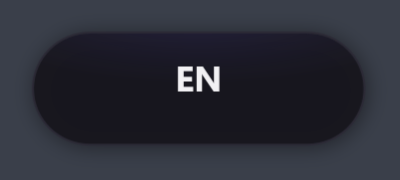
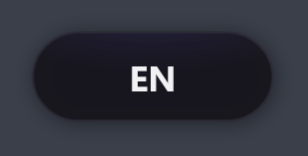
README: layout pill picture at its real size
The docs render stretched the pill into a fixed 200x90 box, so the text sat high and looked small.

Changed region(s): [[0.0584, 0.1795, 0.9351, 0.7949], [0.4091, 0.359, 0.5844, 0.5897]]

diff --git a/src/SimpleWindowsTools/UI/OverlayWindow.xaml b/src/SimpleWindowsTools/UI/OverlayWindow.xaml
@@ -18,7 +18,7 @@
             <Border.RenderTransformOrigin>0.5,0.5</Border.RenderTransformOrigin>
             <Grid>
                 <Border x:Name="Glow" Background="{DynamicResource TopGlow}" />
-                <TextBlock x:Name="Label" Text="EN" Margin="28,10" MinWidth="64" TextAlignment="Center"
+                <TextBlock x:Name="Label" Text="EN" Margin="28,10" MinWidth="64" TextAlignment="Center" VerticalAlignment="Center"
                            FontFamily="{StaticResource FontDisplay}" FontWeight="Bold" FontSize="18"
                            Foreground="{DynamicResource Ink}" />
             </Grid>

diff --git a/src/SimpleWindowsTools/DebugRender.cs b/src/SimpleWindowsTools/DebugRender.cs
@@ -63,7 +63,8 @@ internal static class DebugRender
         overlay.Label.Text = "RU";
         overlay.Pill.Opacity = 1;
         var gray = new SolidColorBrush(Color.FromRgb(0x3A, 0x3F, 0x4A));
-        Save((FrameworkElement)overlay.Content, 200, 90, gray, Path.Combine(dir, "overlay.png"));
+        var pillSize = PillSize(overlay);
+        Save((FrameworkElement)overlay.Content, pillSize.Width, pillSize.Height, gray, Path.Combine(dir, "overlay.png"));
         overlay.Close();
 
         // Screenshot editor over the rendered settings picture
@@ -130,8 +131,10 @@ internal static class DebugRender
 
         var overlay = new OverlayWindow();
         overlay.Label.Text = "EN";
+        overlay.Label.FontSize = new Core.AppSettings().OverlayFontSize; // what a new install shows
         overlay.Pill.Opacity = 1;
-        Save((FrameworkElement)overlay.Content, 200, 90, new SolidColorBrush(Color.FromRgb(0x3A, 0x3F, 0x4A)), Path.Combine(dir, "layout-pill.png"));
+        var size = PillSize(overlay);
+        Save((FrameworkElement)overlay.Content, size.Width, size.Height, new SolidColorBrush(Color.FromRgb(0x3A, 0x3F, 0x4A)), Path.Combine(dir, "layout-pill.png"));
         overlay.Close();
 
         var setup = new SimpleWindowsTools.Setup.InstallerWindow();
@@ -139,6 +142,14 @@ internal static class DebugRender
         setup.Close();
 
         try { Directory.Delete(temp, recursive: true); } catch { }
+    }
+
+    /// <summary>The overlay window sizes to its content; render it at that size, not stretched into a box.</summary>
+    private static Size PillSize(OverlayWindow overlay)
+    {
+        var content = (FrameworkElement)overlay.Content;
+        content.Measure(new Size(double.PositiveInfinity, double.PositiveInfinity));
+        return new Size(System.Math.Ceiling(content.DesiredSize.Width), System.Math.Ceiling(content.DesiredSize.Height));
     }
 
     /// <summary>Switch thumbs move by a storyboard, which doesn't run in an offscreen render — set the end state.</summary>
